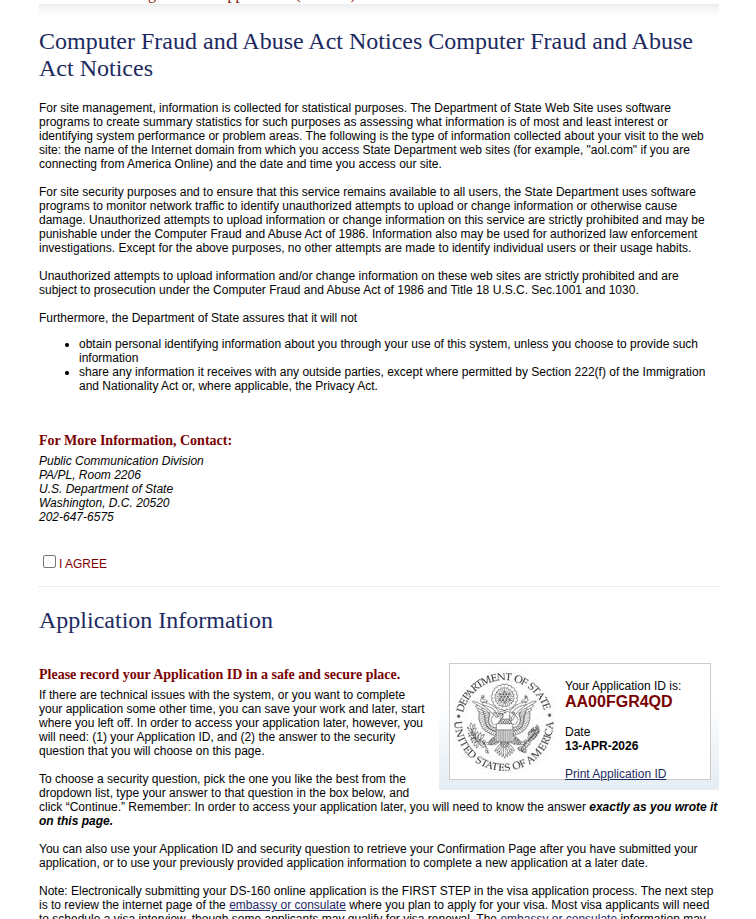
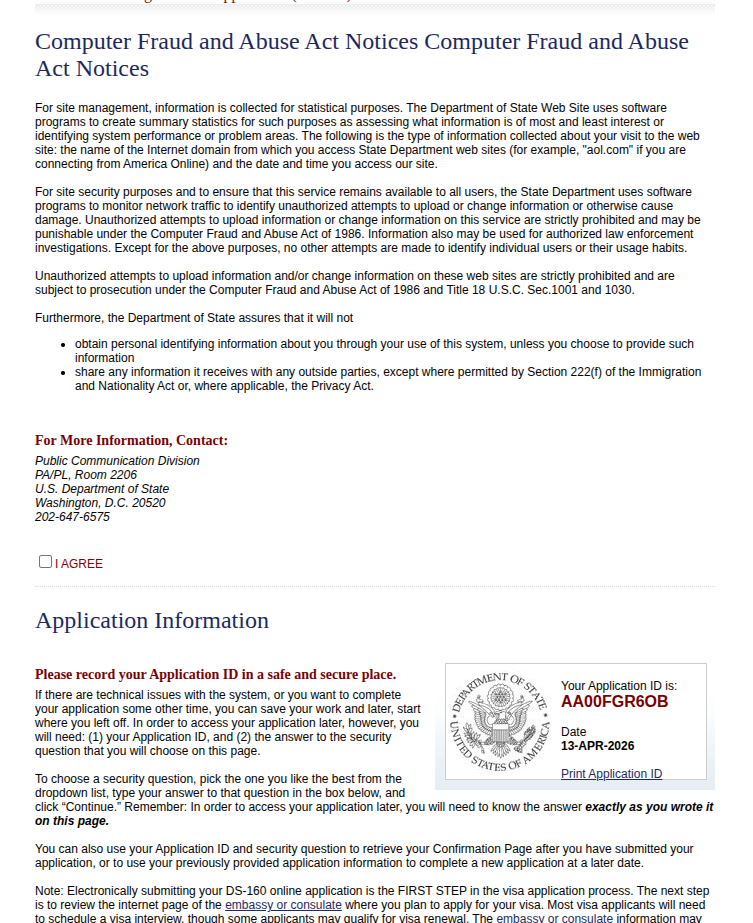
Initial

Changed region(s): [[0.0305, 0.0305, 0.9469, 0.4266], [0.0305, 0.457, 0.9469, 1.0]]

diff --git a/ApplicationID.md b/ApplicationID.md
@@ -23,7 +23,7 @@
 ## Секретный вопрос
 
 - **Вопрос:** *What is the given name of your mother's mother?*
-- **Ответ:** (ваш ответ)
+- **Ответ:** 980
 
 ## Важное примечание
 
